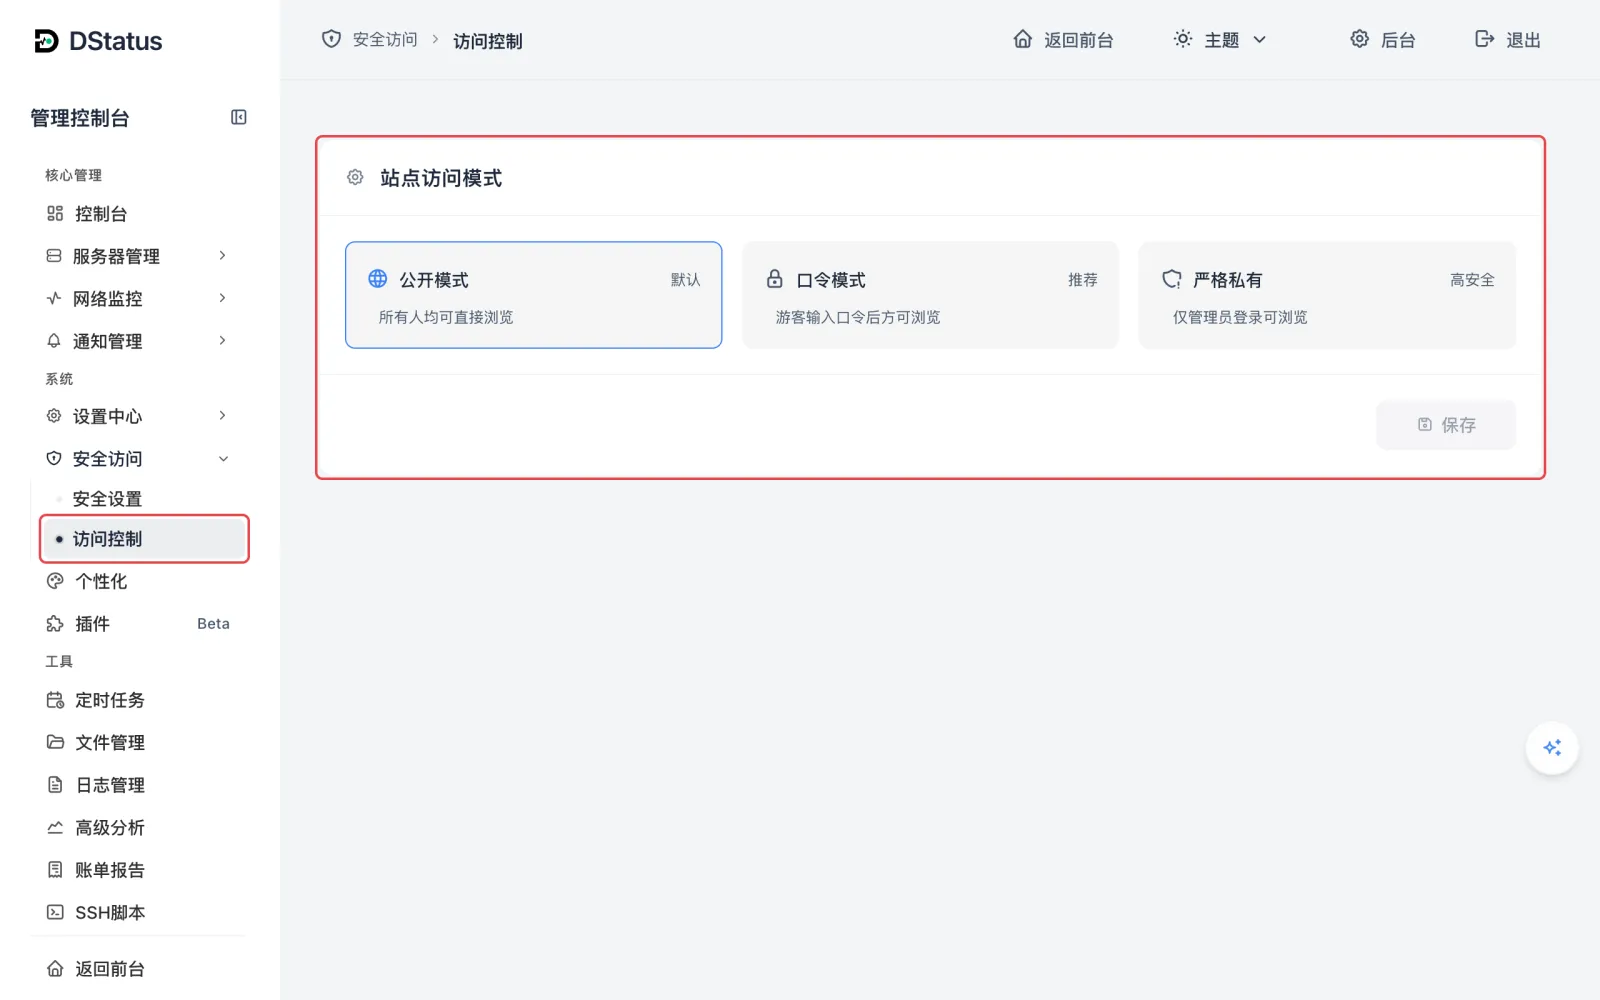
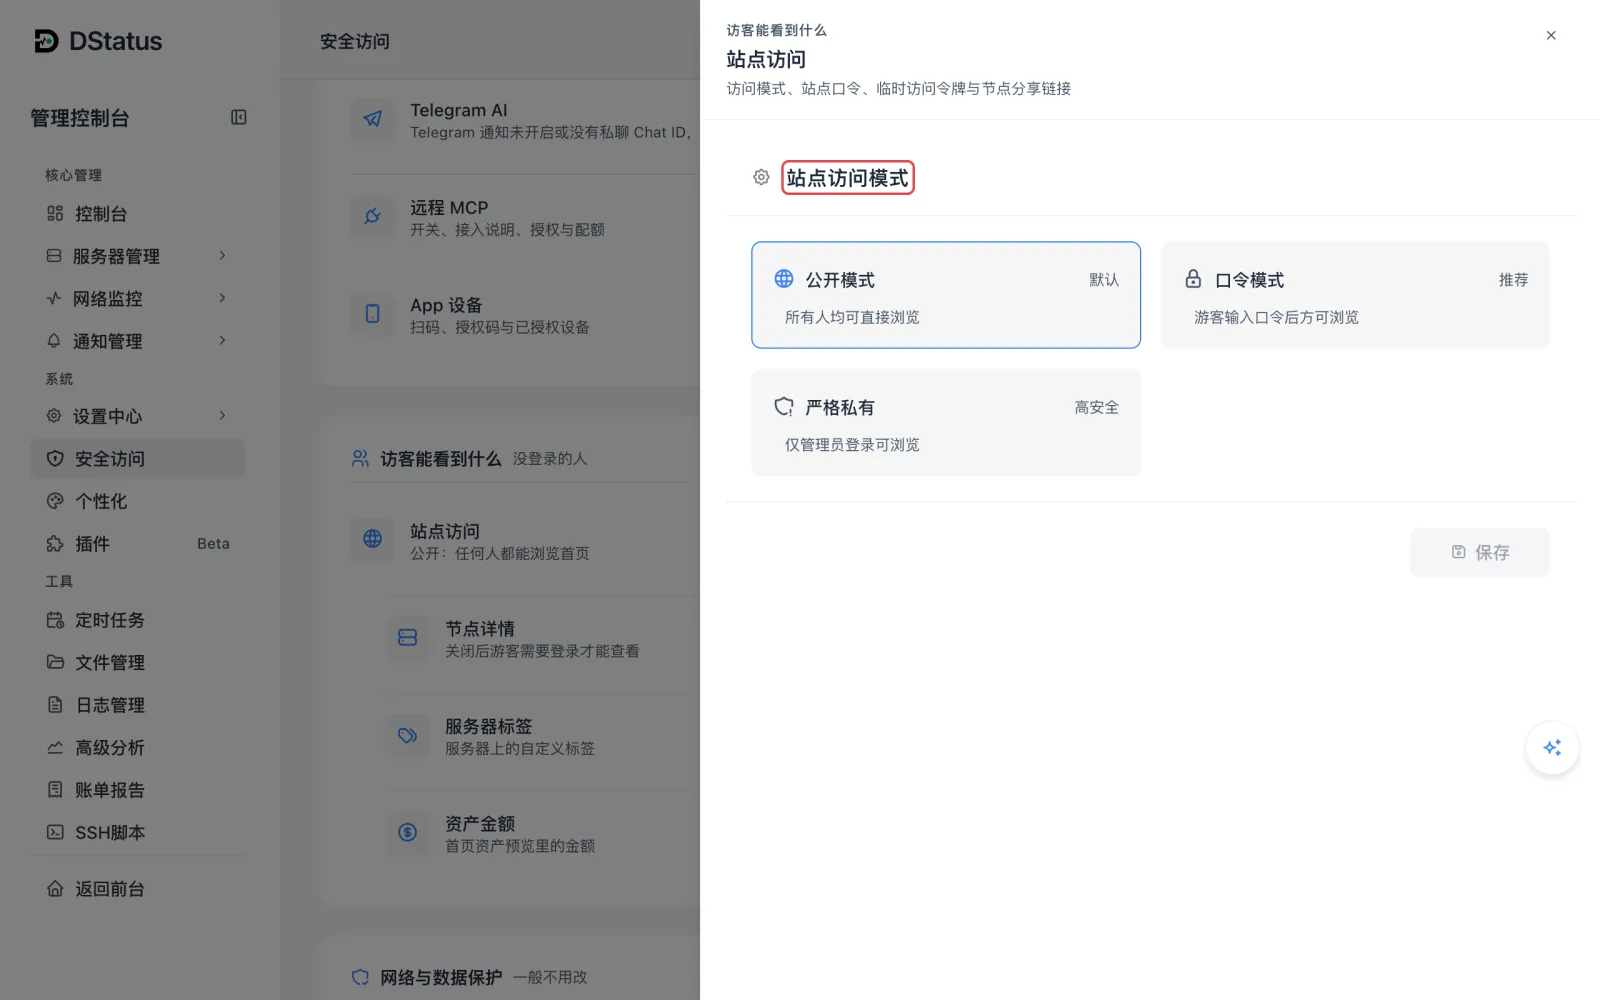
docs: 补 dev-55 新功能与旧截图——接入节点新增「特殊网络安装」一节（开始前、与抽屉对齐的三步、B 机反代与放行端口、待审核批准、地区识别填出口 IP、装失败或离线的排查）；设置中心补「经面板下载 Agent」开关并对齐 dev-55（基础设置自动保存、站点名称搬到个性化、Agent 长连接改名）；Agent 升级页同步开关说明；8 张拍到旧入口的截图从官方 Demo 重拍，新增 2 张；截图脚本支持 fill:选择器=值 往输入框填示例值。Gemini 写、站长视角试读两轮按意见改

diff --git a/scripts/shoot.js b/scripts/shoot.js
@@ -6,7 +6,7 @@
 // 依赖 Playwright 和本机 Chrome：本仓放在主仓目录里时，直接用主仓 node_modules 里的 Playwright。
 // 只点开界面、不提交：清单里的 before 不要写「保存」「确认删除」这类会真的改数据的按钮，共用 Demo 上不做真实修改。
 // 清单每项：{ file, path, clip: CSS 选择器（裁这个元素的区域，可选，缺省整屏）, pad: 裁剪留白像素,
-//            highlight: [按钮文字，或 css:选择器], before: [先点击的文字或 css:选择器] }
+//            highlight: [按钮文字，或 css:选择器], before: [先点击的文字或 css:选择器，或 fill:选择器=示例值 往输入框填值] }
 // 按钮文字要和界面完全一致；文字后面带数字的（如「选中全部筛选结果（15）」）用 css:button:has-text('选中全部筛选结果')。
 const fs = require("fs");
 const path = require("path");
@@ -70,7 +70,13 @@ async function locate(page, target) {
     await clean(page);
     let skipped = false;
     for (const text of shot.before || []) {
-      try { await (await locate(page, text)).click({ timeout: 8000 }); await page.waitForTimeout(1200); }
+      try {
+        // fill:选择器=值 只往输入框里填示例值（不提交），用于要先填内容界面才出来的画面
+        const fill = text.startsWith("fill:") ? text.slice(5).match(/^(.*?)=(.*)$/s) : null;
+        if (fill) await page.locator(fill[1]).first().fill(fill[2], { timeout: 8000 });
+        else await (await locate(page, text)).click({ timeout: 8000 });
+        await page.waitForTimeout(1200);
+      }
       catch (_) { console.log(`  点不到：${text}，这张跳过`); skipped = true; break; }
     }
     if (skipped) { await page.close(); continue; }

diff --git a/system-settings.md b/system-settings.md
@@ -11,27 +11,28 @@
 | 「设置中心 → 设置总览」 | 改站点信息、密码、性能档位，配置安装源、图片流与连接开关 |
 | 「设置中心 → 数据库与存储」 | 查看数据库占用，执行备份恢复、切换引擎、改保留时长与清理空间 |
 
-<figure><img src="/system-settings-overview.webp" alt="「设置总览」的「基础设置」性能档位与底部「保存」按钮"><figcaption>「设置总览」的「基础设置」性能档位与底部「保存」按钮</figcaption></figure>
+<figure><img src="/system-settings-overview.webp" alt="「设置总览」的「基础设置」与性能档位切换"><figcaption>「设置总览」的「基础设置」与性能档位切换</figcaption></figure>
 
 ## 怎么用
 
 ### 基础设置与性能档位
 
-直接修改站点基础配置，或点开卡片在右侧抽屉里细调。
+直接修改站点基础配置并自动保存，或点开卡片在右侧抽屉里细调。
 
 1. 点「基础设置」右上角「节能」「平衡」或「高性能」，切换刷新档位。
-2. 改完站点信息或「调试」后，点右下角「保存」或按 Ctrl + S。
+2. 展开「站点网址」输入后按回车或离开输入框即保存，「调试」等开关拨动即保存。
 
 | 选项 | 作用 | 默认 |
 |---|---|---|
 | 「节能」/「平衡」/「高性能」 | 调整面板轮询与推送频率；「节能」省资源，「高性能」刷新更快 | 「平衡」 |
-| 「站点名称」/「站点网址」 | 前台标题，以及通知末尾和 Telegram Webhook 引用的面板地址 | DStatus / 自动识别 |
-| 「管理密码」 | 点「前往」跳到 [安全访问](/security-settings) 修改密码；改后所有登录失效并断开终端 | — |
-| 「Agent 安装源」 | 设探针默认下载版本与 GitHub 加速代理，详见 [升级 Agent](/agent-upgrade) | 跟随最新、直连 |
+| 「站点网址」 | 通知、分享链接和接入命令里用的面板地址，按回车或离开输入框后保存 | 自动识别 |
+| 「站点名称」 | 已移到 [外观与个性化](/personalization)「站点品牌与配色」（显示当前名称），点「前往」修改 | DStatus |
+| 「管理密码」 | 已移到 [安全访问](/security-settings)「登录后台」，点「前往」修改；改后所有登录失效并断开终端 | — |
+| 「Agent 安装源」 | 设探针默认下载版本、GitHub 加速代理与「经面板下载 Agent」开关，详见 [升级 Agent](/agent-upgrade) | 跟随最新、直连、经面板下载关闭 |
 | 「AI 服务」 | 配置内置 AI 或自有模型服务商，见 [AI 功能](/ai) | — |
 | 「MJPEG」 | 通过 `/img_live` 对外输出节点状态实时图片流或单张图 | 开启 |
 | 「IP 归属」 | 切换免费额度或自定义 API Key，设置多数据源归属地策略 | 免费额度、「多数一致（默认）」 |
-| 「调试」 | 输出详细运行日志；打开后可勾选「访客页面使用旧版」排查界面问题 | 关闭 |
+| 「调试」/「访客页面使用旧版」 | 输出更详细的运行日志；开启「调试」后可开启「访客页面使用旧版」排查界面问题 | 关闭 |
 
 没人浏览页面时，探针空闲会自动降为 60 秒上报一次。关闭「调试」时，「访客页面使用旧版」会自动关闭并恢复新版。
 
@@ -68,27 +69,37 @@
 | 「主源（平局兜底）」 | 平局或主源模式下优先采用的查询源（自动、ipdata、proxycheck、ipinfo） | 「自动」 |
 :::
 
-::: details 修改 Agent 安装源与 GitHub 加速
-指定探针默认版本，或为国内节点配置 GitHub 下载代理。
+::: details 修改 Agent 安装源与经面板下载
+指定探针默认版本，配置 GitHub 下载代理，或开启「经面板下载 Agent」。
+
+<figure><img src="/system-settings-agent-source.webp" alt="「Agent 安装源」抽屉里的「经面板下载 Agent」开关"><figcaption>「Agent 安装源」抽屉里的「经面板下载 Agent」开关</figcaption></figure>
 
 1. 在「基础设置」点「Agent 安装源」。
 2. 开启「跟随最新版本」，或关闭后在「版本」固定某一版本。
 3. 访问 GitHub 不稳时，在「下载代理 / GitHub 加速」选代理或「自定义」HTTPS 根地址。
-4. 点「保存」，新生成的安装命令和升级任务即按此下载。
+4. 按需开启「经面板下载 Agent」，点「保存」。
+
+| 选项 | 作用 | 默认 |
+|---|---|---|
+| 「跟随最新版本」/「版本」 | 选最新正式版，或关闭后固定某一版本 | 开启 |
+| 「下载代理 / GitHub 加速」 | 选「直连」、内置加速代理或「自定义」HTTPS 根地址 | 「直连」 |
+| 「经面板下载 Agent」 | 供 [特殊网络安装](/agent-guide#特殊网络安装) 经内网反代从面板下载脚本和探针（也可在特殊网络安装抽屉直接开启）；开启后普通安装与升级（需新版探针）在 GitHub 和加速站都失败时也改从面板下载 | 关闭 |
+
+开启「经面板下载 Agent」需面板能访问下载源，Linux x86_64 探针每转发一次面板收发各约 27 MB。
 :::
 
 ### 服务与连接
 
-管理移动端授权、外部 AI 接入，以及网页终端与探针长连接开关。
+管理移动端授权、外部 AI 接入，以及网页终端与 Agent 长连接开关。
 
-<figure><img src="/system-settings-services.webp" alt="「服务与连接」中的「网页终端」与「探针长连接」开关"><figcaption>「服务与连接」中的「网页终端」与「探针长连接」开关</figcaption></figure>
+<figure><img src="/system-settings-services.webp" alt="「服务与连接」中的「App 授权、远程 MCP、网页终端」前往入口与「Agent 长连接」开关"><figcaption>「服务与连接」中的「App 授权、远程 MCP、网页终端」前往入口与「Agent 长连接」开关</figcaption></figure>
 
 | 选项 | 作用 | 默认 |
 |---|---|---|
-| 「App 授权、远程 MCP、网页终端」 | 点「前往」到 [安全访问](/security-settings)「AI 与远程操作」，管理 [App](/apple-app)、[远程 MCP](/mcp) 与网页终端开关 | — |
-| 「探针长连接」 | 探针经 WebSocket 上报与领任务（双向约 80 MB/天）；关闭后改走 HTTP | 开启 |
+| 「App 授权、远程 MCP、网页终端」 | 已移到 [安全访问](/security-settings)「AI 与远程操作」，点「前往」管理 [App](/apple-app)、[远程 MCP](/mcp) 与网页终端开关 | — |
+| 「Agent 长连接」 | 探针经 WebSocket 上报与领任务（双向约 80 MB/天）；关闭后改走 HTTP | 开启 |
 
-「网页终端与命令执行」与「探针长连接」点开关立即生效，关闭前会弹窗确认。不在网页上运维服务器时，关掉网页终端可减少暴露面。
+「Agent 长连接」点开关立即生效，关闭前会弹窗确认。网页终端开关已移至 [安全访问](/security-settings)，不用时可关掉以减少暴露面。
 
 ### 数据库与存储
 
@@ -156,16 +167,18 @@
 
 ## 常见问题
 
-::: details 改了站点名称、网址或「调试」没生效
-「基础设置」的输入框和「调试」开关不会自动保存，改完要点右下角「保存」。保存后仍未更新时，刷新浏览器页面再看。
+::: details 改了「站点网址」没生效，或找不到「站点名称」
+「站点网址」需以 `http://` 或 `https://` 开头，按回车或离开输入框后校验保存；失败可点「重试」。
+
+「站点名称」已移到 [外观与个性化](/personalization)「站点品牌与配色」，可在「基础设置」点「前往」修改。
 :::
 
 ::: details 节点详情里没有「终端」，或 AI 无法执行命令
 打开 [安全访问](/security-settings)「AI 与远程操作」，检查「网页终端与命令执行」是否已关闭。重新打开开关后，网页终端、文件管理和 AI 命令执行立即恢复。
 :::
 
-::: details 关闭「探针长连接」后，部分被动节点显示离线
-关闭长连接后，被动节点改由面板直连节点的「API 端口」取数。请放行节点防火墙对应端口，或重新打开「探针长连接」。
+::: details 关闭「Agent 长连接」后，部分被动节点显示离线
+关闭长连接后，被动节点改由面板直连节点的「API 端口」取数。请放行节点防火墙对应端口，或重新打开「Agent 长连接」。
 :::
 
 ::: details 缩短保留时长后，数据库占用没有立刻变小
@@ -173,7 +186,7 @@
 :::
 
 ::: details 安装或升级探针时下载失败
-打开「设置总览 → Agent 安装源」，在「下载代理 / GitHub 加速」换一个代理并点「保存」。之后重新执行安装命令或重试升级。
+打开「Agent 安装源」换代理或开启「经面板下载 Agent」，点「保存」后重试。不能访问外网的 Linux 机器见 [特殊网络安装](/agent-guide#特殊网络安装)。
 :::
 
 ::: details 忘记管理密码或进不去后台

diff --git a/agent-upgrade.md b/agent-upgrade.md
@@ -66,13 +66,14 @@ SSH 密码与本地保险箱用法见 [管理服务器](/server-management)。
 | 「跟随最新版本」 | 开启后使用最新正式版；关闭后可指定固定版本 | 开启 |
 | 「版本」 | 关闭「跟随最新版本」后，选择历史版本或预发布版 | — |
 | 「下载代理 / GitHub 加速」 | 可选「直连」「gh-proxy」「ghfast」「runn.i.ng」或「自定义」 | 「直连」 |
+| 「经面板下载 Agent」 | 供 [特殊网络安装](/agent-guide#特殊网络安装) 从面板下载探针；普通安装与升级（需新版探针）在 GitHub 和加速站都失败时也改从面板下载 | 关闭 |
 
-选「自定义」填 HTTPS 根地址，点「保存」生效。其他基础配置见 [设置中心](/system-settings)。
+选「自定义」填 HTTPS 根地址，点「保存」生效。开启「经面板下载 Agent」需面板能访问下载源，每次转发收发各约 27 MB。其他基础配置见 [设置中心](/system-settings)。
 
 ## 常见问题
 
 ::: details 升级失败或提示下载失败
-节点访问 GitHub 受限时会出现。在「Agent 安装源」切换下载代理，点「保存」后重试。
+节点访问 GitHub 受限时会出现。在「Agent 安装源」切换下载代理或开启「经面板下载 Agent」（需新版探针），点「保存」后重试。
 
 全部代理均不可用时，可上传安装包离线更新。步骤见 [安装命令报错](/troubleshooting#安装命令报错)。
 :::
